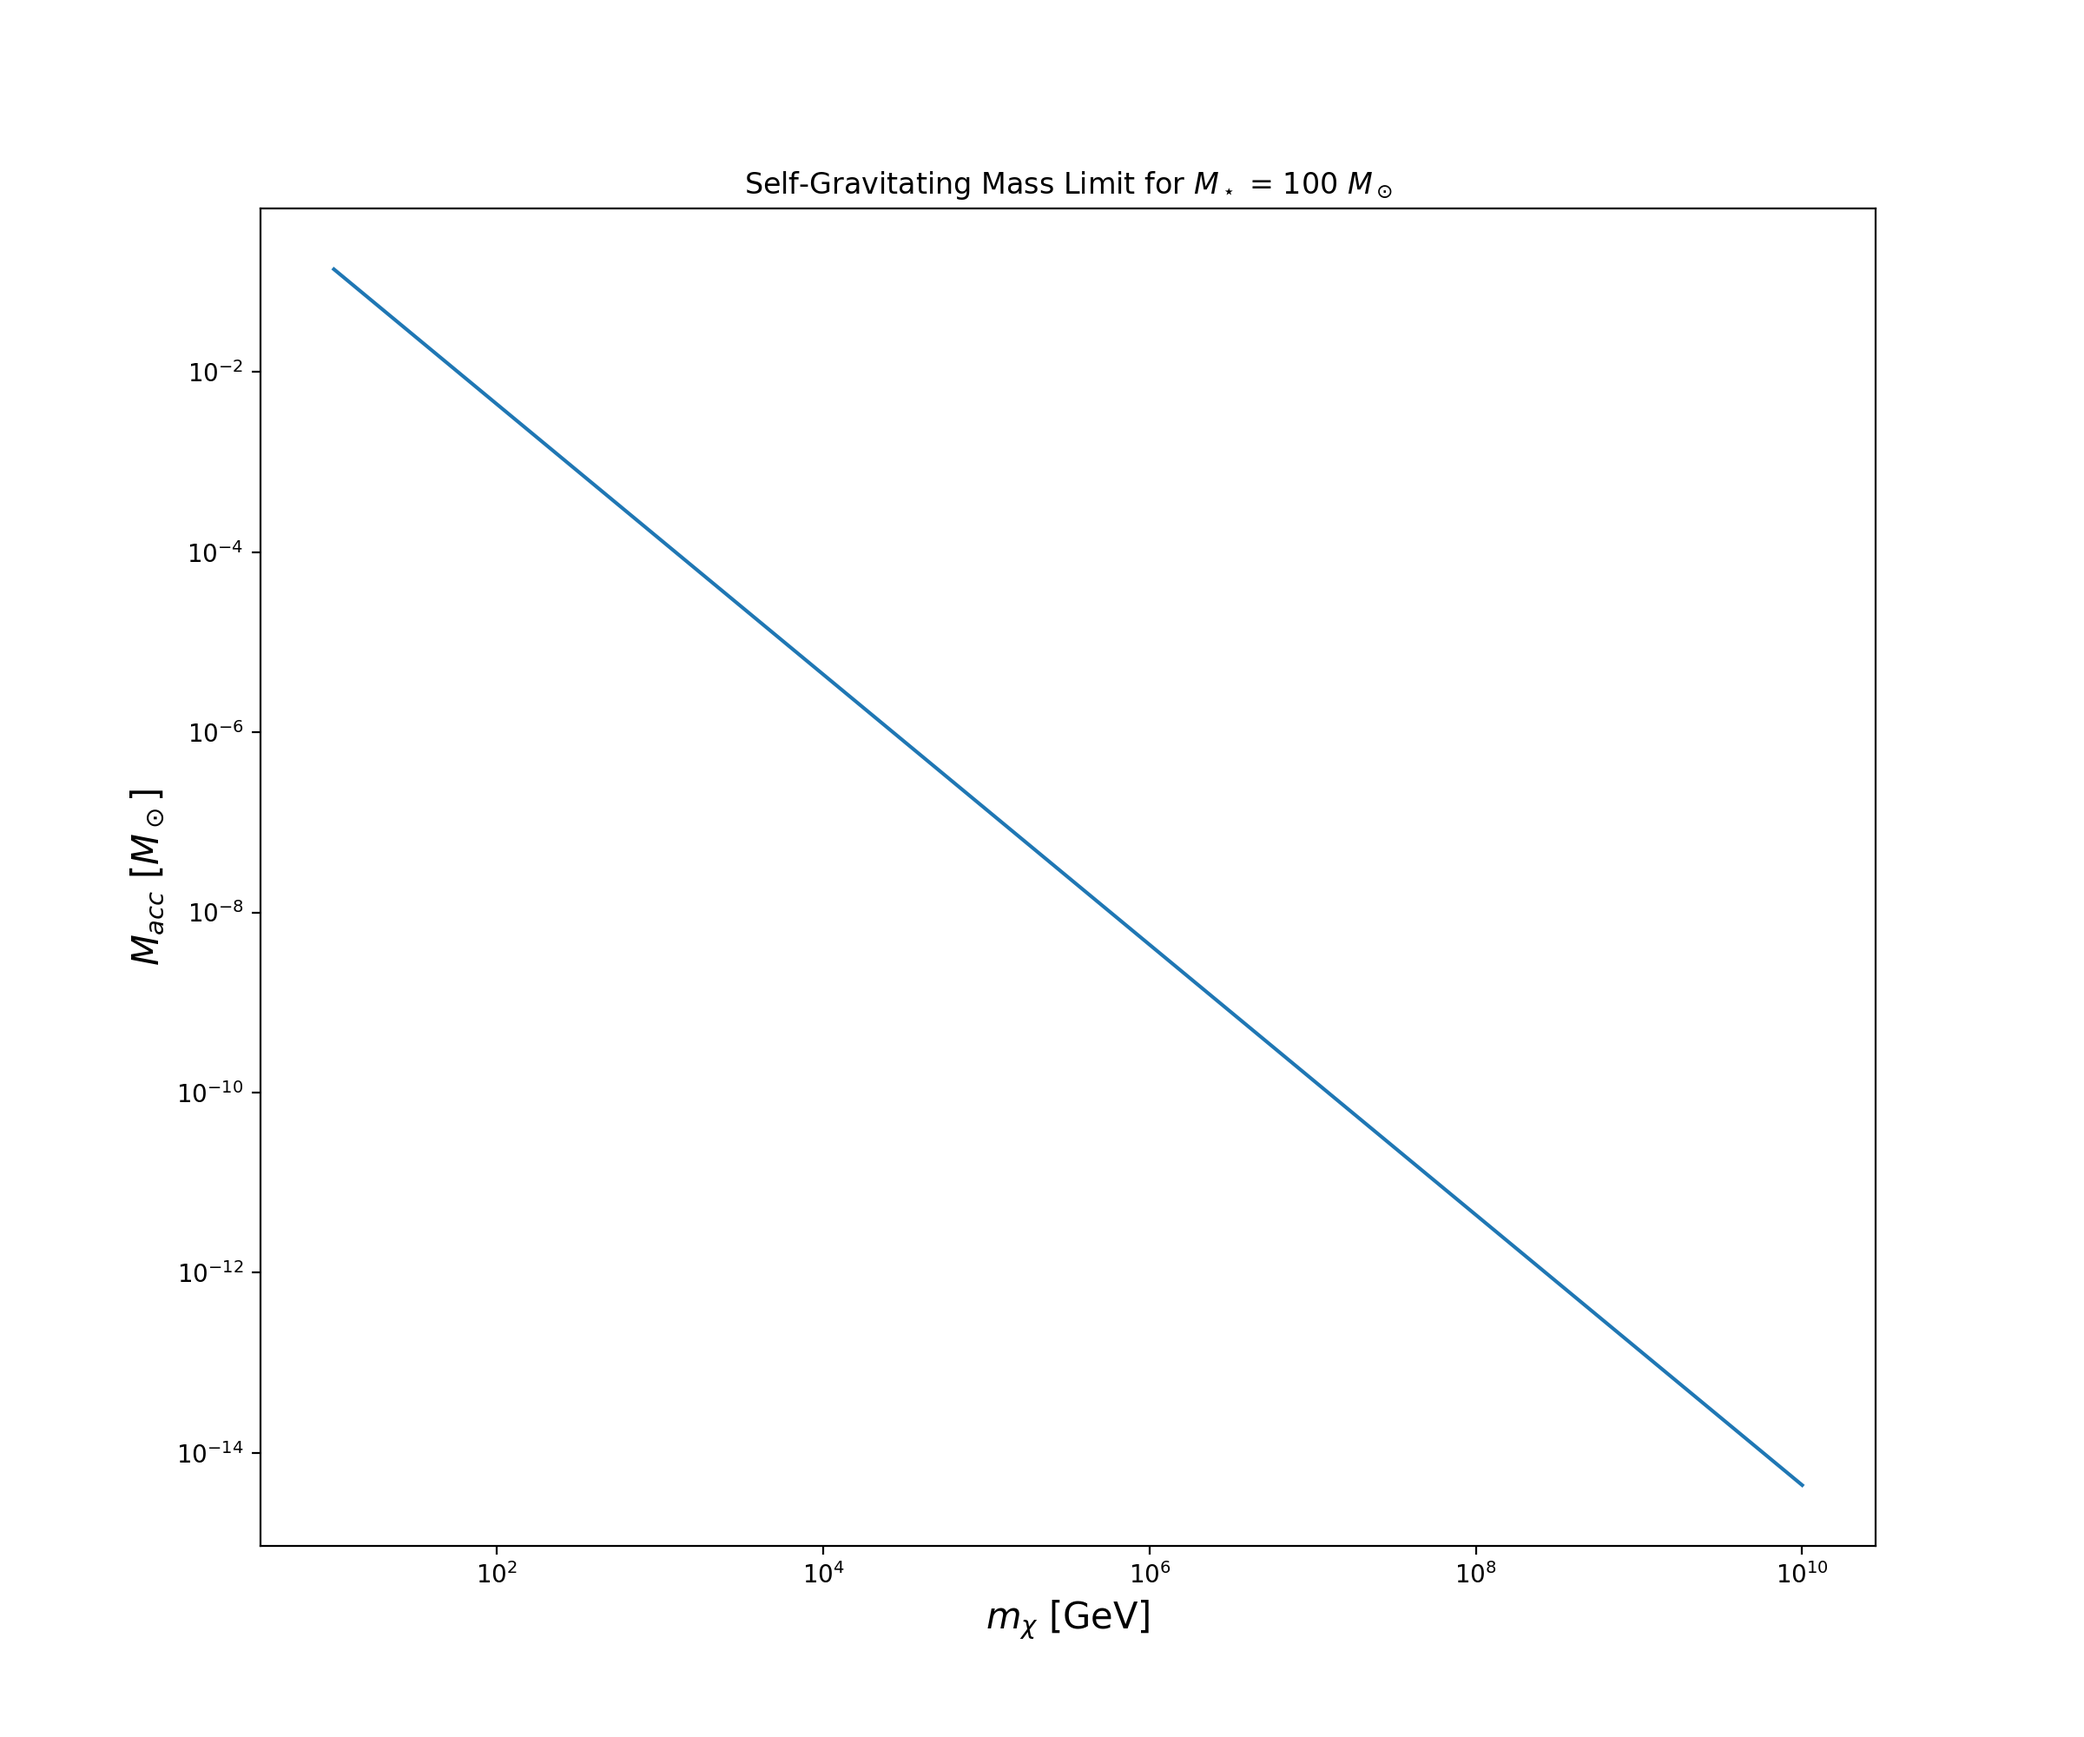
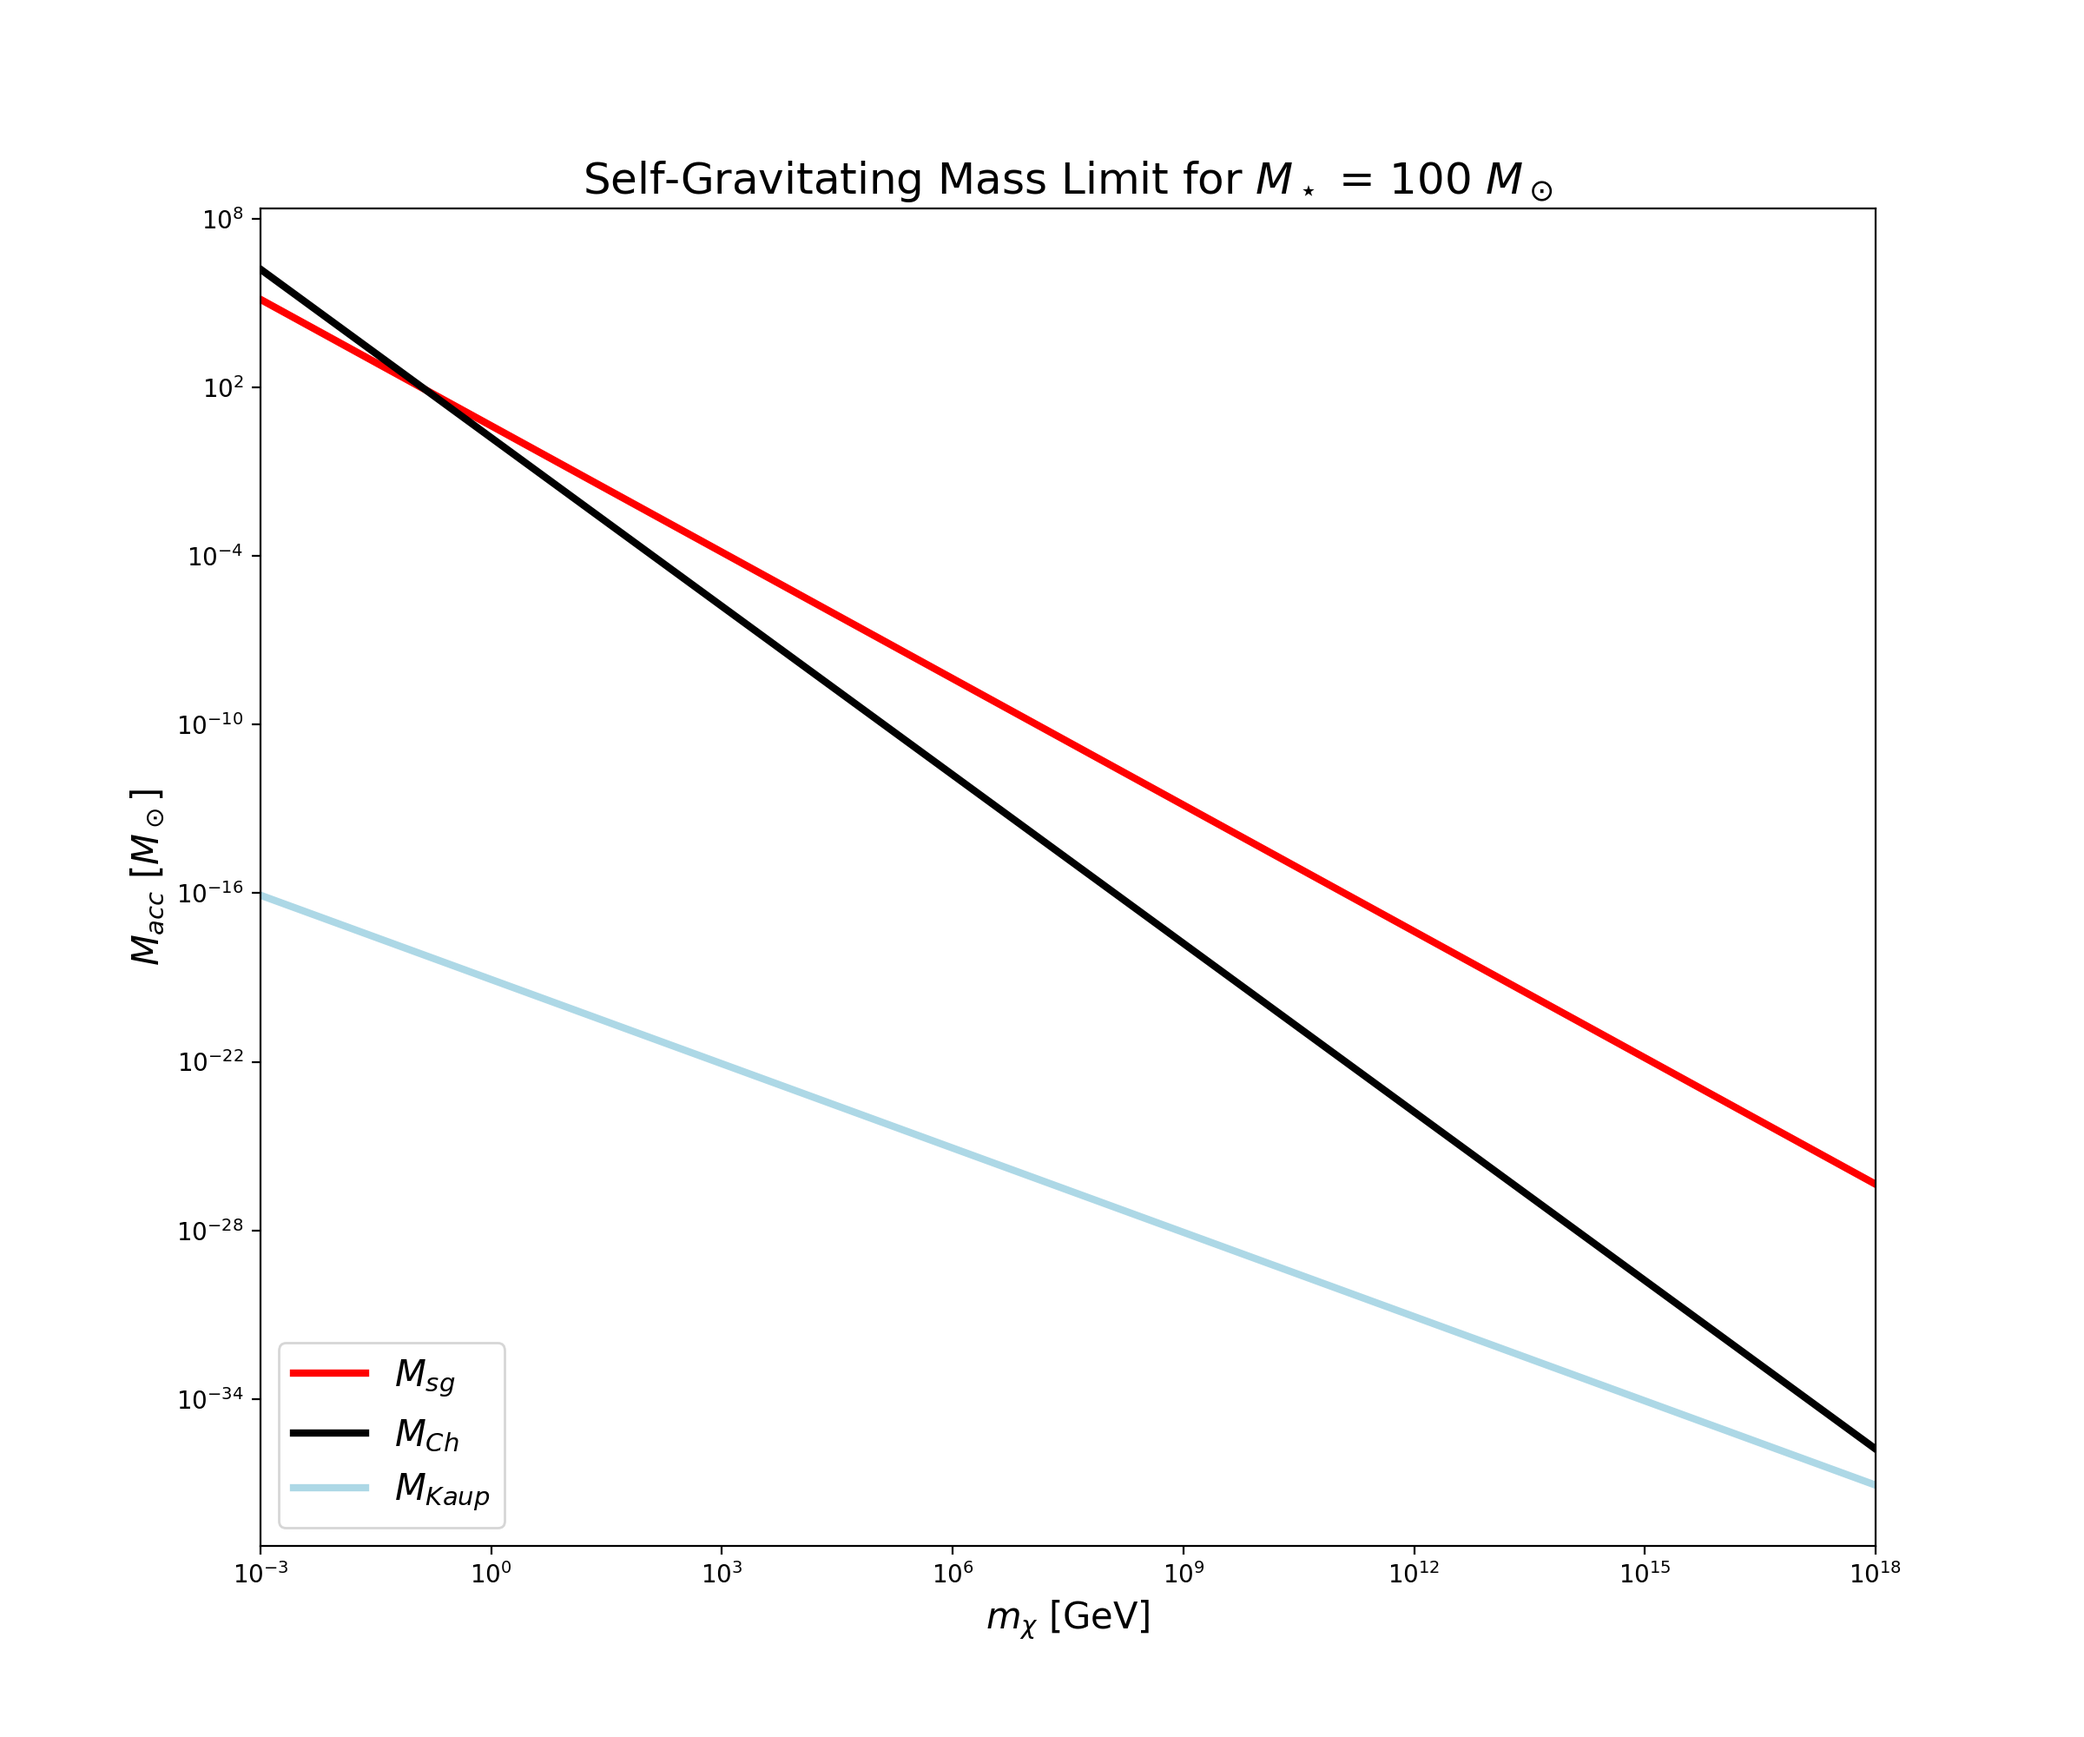
finished recreating ellis fig 3

diff --git a/PY_BH_Exclusion.py b/PY_BH_Exclusion.py
@@ -1083,12 +1083,22 @@ def self_gravitation_cond(star, mx):
 def chandrasekhar_mass(mx):
 
     #converting GeV to g
-    mchi = mx * 5.62e23
+    mchi = mx / 5.62e23
 
     m_planck = 2.176434e-5 #in grams
     m_ch = (m_planck**3)/(mchi**2) #in grams
 
     return m_ch
+
+def kaup_mass(mx):
+
+    #converting GeV to g
+    mchi = mx / 5.62e23
+
+    m_planck = 2.176434e-5 #in grams
+    m_k = 0.633*((m_planck**2)/mchi) #in grams
+
+    return m_k
 
 def DM_Mass_Capture(star, Mchi, rho_chi, vbar, sigma_xenon):
 
@@ -1824,9 +1834,10 @@ elif plottype == "ellis params":
 
     E = 0
 
-    mchi = np.logspace(1, 10, 30)
+    mchi = np.logspace(-3, 18, 30)
     M_acc = []
     M_ch = []
+    M_K = []
 
 
     #Looping over all Stellar Masses
@@ -1834,19 +1845,23 @@ elif plottype == "ellis params":
 
         temp = self_gravitation_cond(M100, mchi[i])
         temp2 = chandrasekhar_mass(mchi[i])
+        temp3 = kaup_mass(mchi[i])
 
         M_sol = temp/1.9885e33
         M_sol2 = temp2/1.9885e33
+        M_sol3 = temp3/1.9885e33
 
         M_acc.append(M_sol)
         M_ch.append(M_sol2)
+        M_K.append(M_sol3)
 
 
     print(M_acc)
     
     #Plotting
-    plt.plot(mchi, M_acc)
-    #plt.plot(mchi, M_ch)
+    plt.plot(mchi, M_acc, color = "red", linewidth = 3, label = "$M_{sg}$")
+    plt.plot(mchi, M_ch, color = "black", linewidth = 3, label = "$M_{Ch}$")
+    plt.plot(mchi, M_K, color = "lightblue", linewidth = 3, label = "$M_{Kaup}$")
 
 
     slope, intercept = np.polyfit(np.log(mchi), np.log(M_acc), 1)
@@ -1862,11 +1877,11 @@ elif plottype == "ellis params":
     plt.yscale('log')
     plt.xscale('log')
     plt.xlabel('$m_\chi$ [GeV]', fontsize = 15)
-    #plt.xlim(mchi_dat[0], mchi_dat[-1])
+    plt.xlim(mchi[0], mchi[-1])
     #plt.ylim(plt.ylim()[0], 10**-20)
     plt.ylabel('$M_{acc}$ [$M_\odot$]', fontsize = 15)
-    plt.title('Self-Gravitating Mass Limit for $M_\star$ = 100 $M_\odot$')
-    #plt.legend(loc = 'best', ncol = 2)
+    plt.title('Self-Gravitating Mass Limit for $M_\star$ = 100 $M_\odot$', fontsize = 18)
+    plt.legend(loc = 'lower left', ncol = 1, fontsize = 15)
     plt.savefig('self_gravitating_exclusion.png', dpi = 200)
     plt.show()
 
